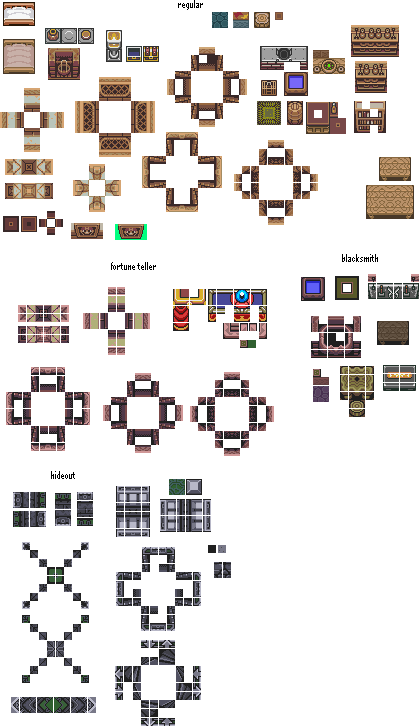
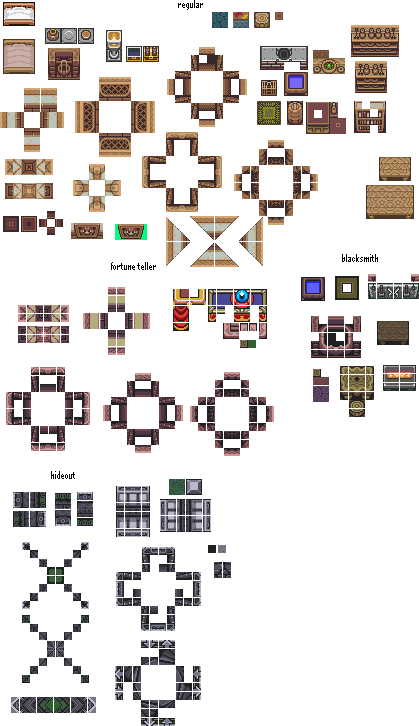
Fixing characters template and adding introDemo design

Changed region(s): [[0.3723, 0.2727, 0.6516, 0.3939], [0.0931, 0.1212, 0.1551, 0.1515]]

diff --git a/src/levels/lightWorld/introDemo/introDemo.js b/src/levels/lightWorld/introDemo/introDemo.js
@@ -25,17 +25,330 @@ export default class IntroDemo {
 
 	draw() {
 		Context.clearRect(0, 0, Canvas.width, Canvas.height);
+		this.leftWall();
+		this.bottomWall();
+		this.topWall();
+	}
 
-		// Draw the background
+	topWall() {
+		// Draw left wall
 		Context.drawImage(
 			this.charSelectSheet,
-			264,
-			1,
-			Constants.GAME_WIDTH,
-			Constants.GAME_HEIGHT,
+			24,
+			88,
+			16,
+			24,
+			24,
+			28,
+			16,
+			24);
+
+		Context.drawImage(
+			this.charSelectSheet,
+			24,
+			88,
+			16,
+			24,
+			40,
+			28,
+			16,
+			24);
+
+		Context.drawImage(
+			this.charSelectSheet,
+			24,
+			88,
+			16,
+			24,
+			56,
+			28,
+			16,
+			24);
+
+		Context.drawImage(
+			this.charSelectSheet,
+			24,
+			88,
+			16,
+			24,
+			72,
+			28,
+			16,
+			24);
+
+		Context.drawImage(
+			this.charSelectSheet,
+			24,
+			88,
+			16,
+			24,
+			88,
+			28,
+			16,
+			24);
+
+		Context.drawImage(
+			this.charSelectSheet,
+			24,
+			88,
+			16,
+			24,
+			104,
+			28,
+			16,
+			24);
+
+		Context.drawImage(
+			this.charSelectSheet,
+			24,
+			88,
+			16,
+			24,
+			120,
+			28,
+			16,
+			24);
+
+		Context.drawImage(
+			this.charSelectSheet,
+			24,
+			88,
+			16,
+			24,
+			136,
+			28,
+			16,
+			24);
+
+		Context.drawImage(
+			this.charSelectSheet,
+			24,
+			88,
+			16,
+			24,
+			152,
+			28,
+			16,
+			24);
+
+		Context.drawImage(
+			this.charSelectSheet,
+			24,
+			88,
+			16,
+			24,
+			168,
+			28,
+			16,
+			24);
+
+		Context.drawImage(
+			this.charSelectSheet,
+			24,
+			88,
+			16,
+			24,
+			184,
+			28,
+			16,
+			24);
+
+		// Draw edges
+		Context.drawImage(
+			this.charSelectSheet,
+			190,
+			216,
+			24,
+			24,
 			0,
+			28,
+			24,
+			24);
+
+		Context.drawImage(
+			this.charSelectSheet,
+			215,
+			216,
+			24,
+			24,
+			200,
+			28,
+			24,
+			24);
+
+		// Draw items
+		Context.drawImage(
+			this.charSelectSheet,
+			89,
+			164,
+			16,
+			16,
+			48,
+			28,
+			16,
+			16);
+
+		Context.drawImage(
+			this.charSelectSheet,
+			351,
+			25,
+			48,
+			32,
+			88,
+			28,
+			48,
+			32);
+
+		Context.drawImage(
+			this.charSelectSheet,
+			48,
+			48,
+			32,
+			32,
+			152,
+			28,
+			32,
+			32);
+	}
+
+	leftWall() {
+		// Draw left wall
+		Context.drawImage(
+			this.charSelectSheet,
 			0,
-			Constants.GAME_WIDTH,
-			Constants.GAME_HEIGHT);
+			112,
+			24,
+			16,
+			0,
+			52,
+			24,
+			16);
+
+		Context.drawImage(
+			this.charSelectSheet,
+			0,
+			112,
+			24,
+			16,
+			0,
+			68,
+			24,
+			16);
+
+		Context.drawImage(
+			this.charSelectSheet,
+			0,
+			112,
+			24,
+			16,
+			0,
+			84,
+			24,
+			16);
+
+
+		Context.drawImage(
+			this.charSelectSheet,
+			0,
+			112,
+			24,
+			16,
+			0,
+			100,
+			24,
+			16);
+
+		Context.drawImage(
+			this.charSelectSheet,
+			0,
+			112,
+			24,
+			16,
+			0,
+			134,
+			24,
+			16);
+
+		Context.drawImage(
+			this.charSelectSheet,
+			0,
+			112,
+			24,
+			16,
+			0,
+			150,
+			24,
+			16);
+
+		Context.drawImage(
+			this.charSelectSheet,
+			0,
+			112,
+			24,
+			16,
+			0,
+			166,
+			24,
+			16);
+
+		Context.drawImage(
+			this.charSelectSheet,
+			0,
+			112,
+			24,
+			16,
+			0,
+			182,
+			24,
+			16);
+
+		// Draw edges
+		Context.drawImage(
+			this.charSelectSheet,
+			166,
+			217,
+			24,
+			24,
+			0,
+			28,
+			24,
+			24);
+
+		Context.drawImage(
+			this.charSelectSheet,
+			166,
+			242,
+			24,
+			24,
+			0,
+			198,
+			24,
+			24);
+
+		// Draw items
+		Context.drawImage(
+			this.charSelectSheet,
+			75,
+			101,
+			24,
+			32,
+			0,
+			108,
+			24,
+			32);
+	}
+
+	bottomWall() {
+		// Draw left wall
+		Context.drawImage(
+			this.charSelectSheet,
+			190,
+			243,
+			24,
+			24,
+			0,
+			198,
+			24,
+			24);
 	}
 }
